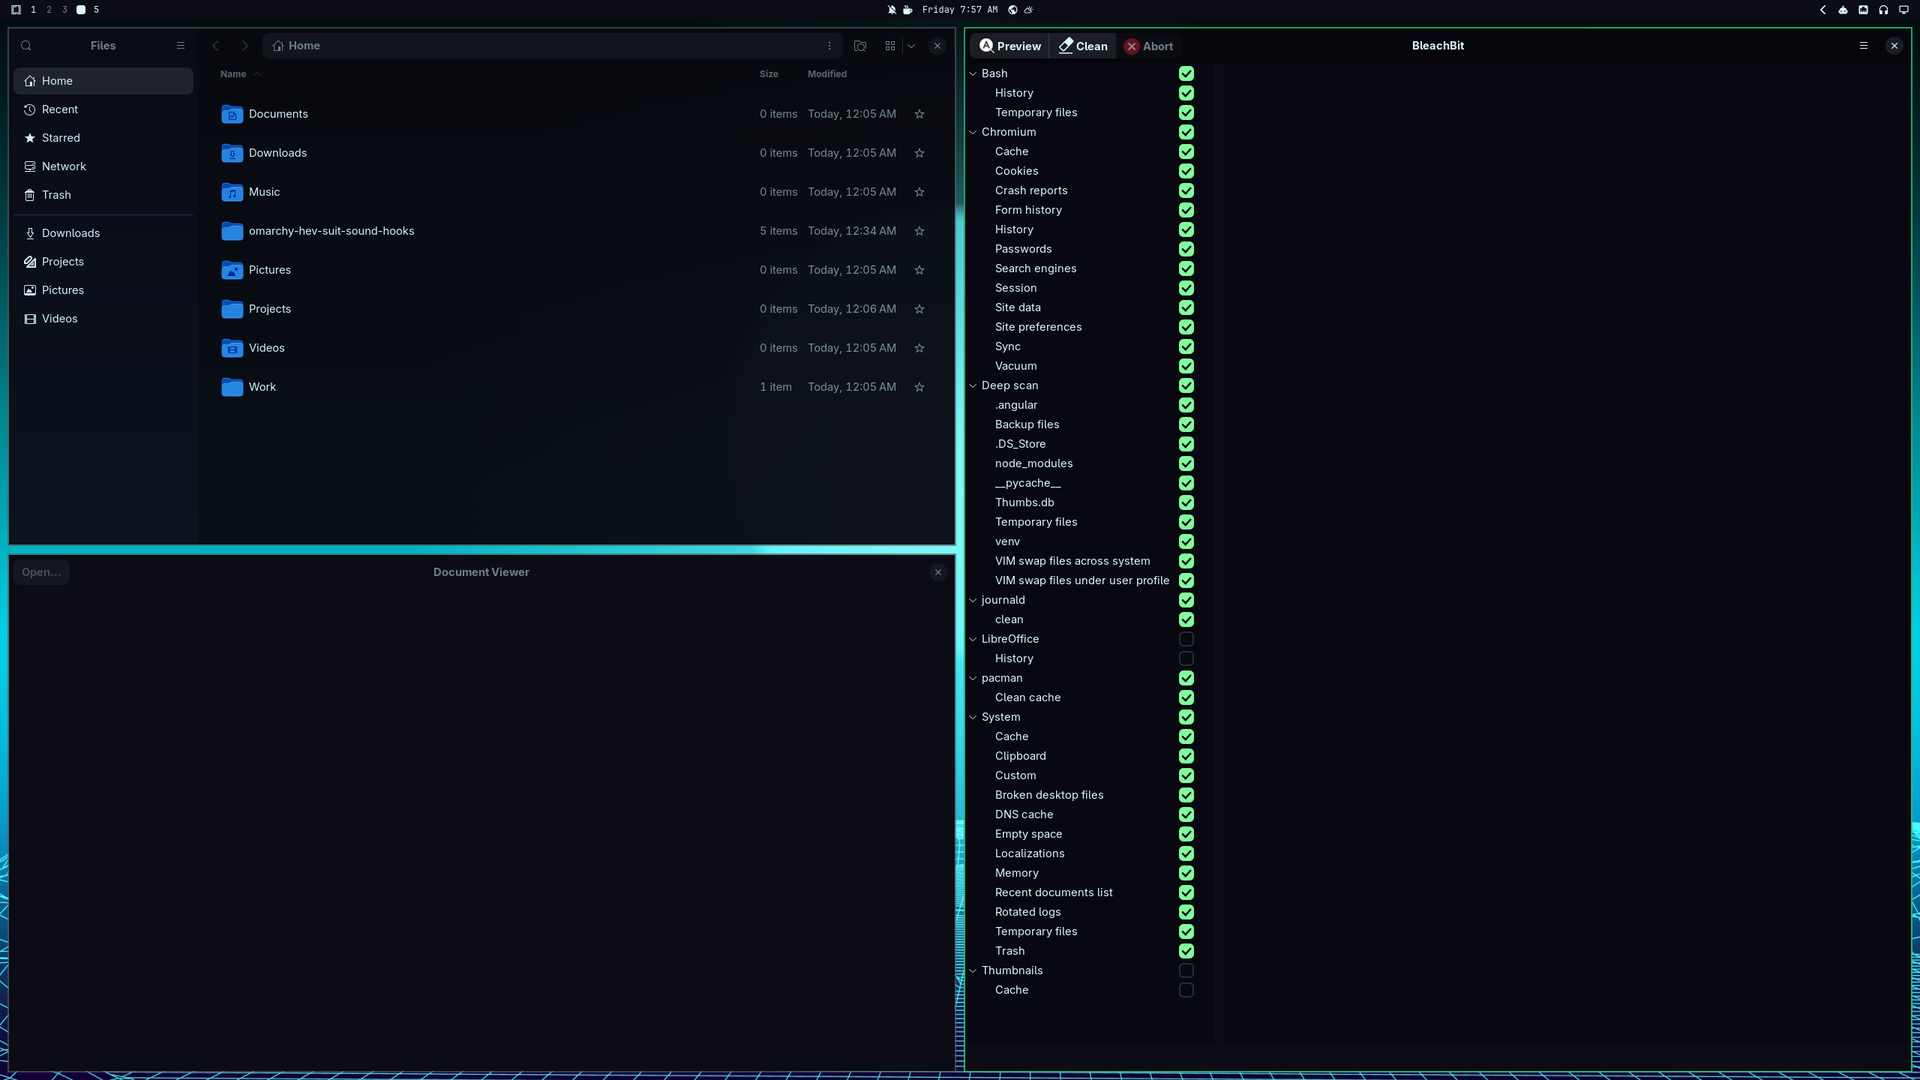
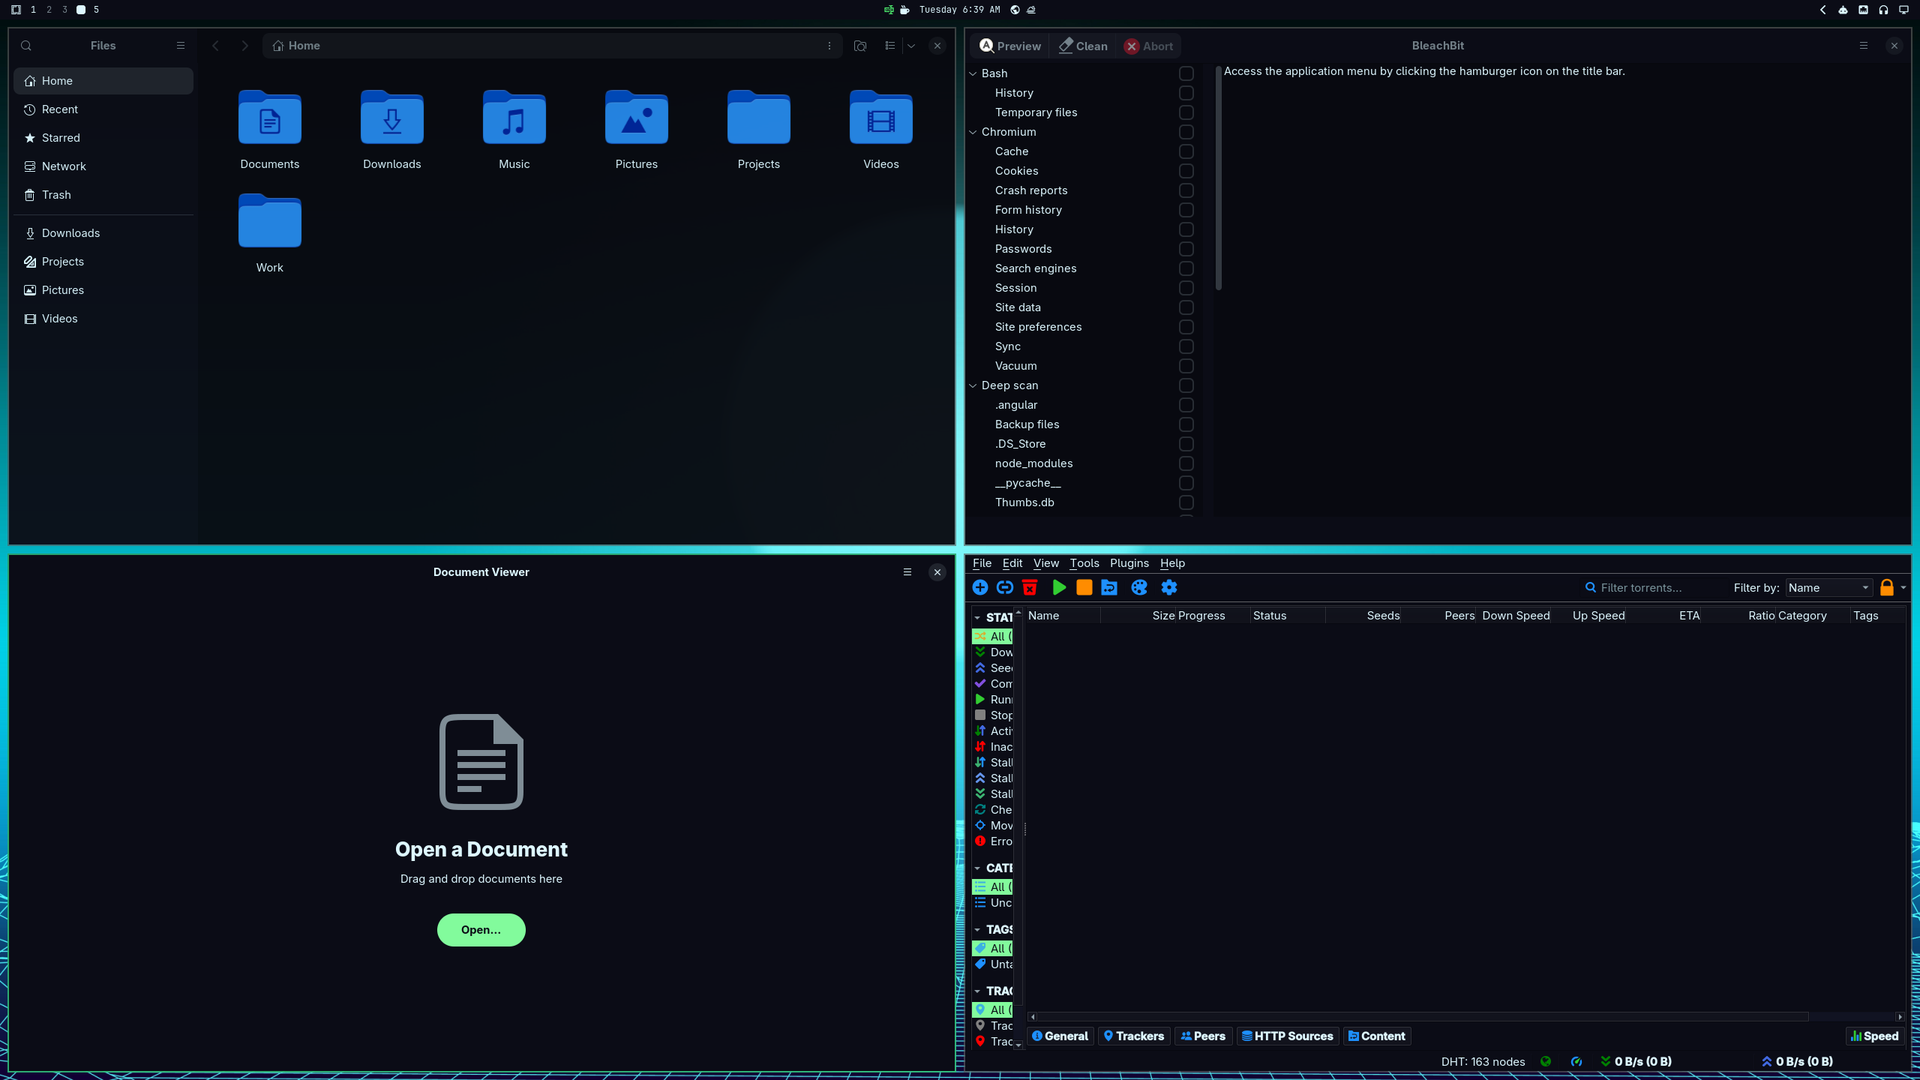
Refresh the preview and mention OmaWeb
Reshoot on Hackerman with the current app set: Files, BleachBit, Papers
(Evince's replacement), and qBittorrent in a 2x2 layout.

Replace Evince with Papers in the docs and add OmaWeb to the Credits
sibling tree as the browser-side extender.

diff --git a/README.md b/README.md
@@ -5,9 +5,9 @@ one-sweep: it paints the GTK and Qt *pipelines* most desktop apps already
 use, so dozens of programs pick up the active theme without an Appearance picker
 or a per-app skin.**
 
-![Chroma on Hackerman — Files, Document Viewer, and BleachBit wearing the theme](preview.png)
+![Chroma on Hackerman — Files, Papers, BleachBit, and qBittorrent wearing the theme](preview.png)
 
-Stock Omarchy flips Nautilus, BleachBit, Evince and friends between light and
+Stock Omarchy flips Nautilus, BleachBit, Papers and friends between light and
 dark Adwaita. That is all they ever get: the same default gray in every theme.
 Your desktop wears Hackerman neon; your file manager wears beige.
 
@@ -46,7 +46,7 @@ Theme authors are free to mention these as extenders in their repos — or not. 
 
 ### Why GTK & Qt (pipelines, not apps)
 
-Most “apps” on a Linux desktop are not custom paint engines. They speak **GTK** or **Qt**. Recolor those pipelines and you recolor Nautilus, Evince, BleachBit, File Roller, qBittorrent, qpwgraph, and a long tail of friends in one shot — without asking each upstream for a theme file.
+Most “apps” on a Linux desktop are not custom paint engines. They speak **GTK** or **Qt**. Recolor those pipelines and you recolor Nautilus, Papers, BleachBit, File Roller, qBittorrent, qpwgraph, and a long tail of friends in one shot — without asking each upstream for a theme file.
 
 That is the opposite of shipping a skin for OBS (where a real theme format exists — see OmaOBS) or patching Chromium / Steam / a website. Those either have no stable color contract, own their own UI chrome, or update on someone else’s schedule. Fighting that is a cat-and-mouse game with people who never asked for your patches; asking strangers to install your fork of Chromium or Steam is weirder still. Websites are worse: content CSS is not your desktop.
 
@@ -56,7 +56,7 @@ Inspired by [Accord](https://github.com/vonsensey/accord), which proved the GTK 
 
 ## What you get
 
-- **GTK4 / libadwaita** — Nautilus, Evince, Calendar, Text Editor, Loupe, …
+- **GTK4 / libadwaita** — Nautilus, Papers, Calendar, Text Editor, Loupe, …
   via `~/.config/gtk-4.0/gtk.css` (the only user lever libadwaita honors).
   Restart-only.
 - **GTK3 — live** — a generated theme under
@@ -301,7 +301,7 @@ active theme name instead of only rewriting user CSS. What still lags is
 documented below; we never kill a window that is in use to force a repaint.
 
 - **GTK4 / libadwaita** — reads `~/.config/gtk-4.0/gtk.css` once per process.
-  Nautilus, Evince, Calendar, Text Editor, Loupe and friends need a restart
+  Nautilus, Papers, Calendar, Text Editor, Loupe and friends need a restart
   after a switch. This is the one remaining restart-only toolkit.
 - **GTK3 apps built on libhandy** — GNOME Disks and Document Viewer are the
   common ones. Light switches keep following live, but **any** switch to a dark
@@ -386,6 +386,10 @@ bash ~/.config/omarchy/plugins/io.github.alxwolfenstein97.chroma/check.sh
   [OmaVT](https://github.com/AlxWolfenstein97/omavt),
   [OmaTTY](https://github.com/AlxWolfenstein97/omatty),
   [OmaHud](https://github.com/AlxWolfenstein97/omahud).
+- Browser side: **[OmaWeb](https://github.com/AlxWolfenstein97/omaweb)** —
+  reshapes the official Catppuccin userstyles bundle to the active
+  `colors.toml` and hands it to Stylus, with an optional Dark Reader export.
+  Manual by design: no Appearance row and no family boom.
 - Already solved elsewhere (gladly):
   - **[Omacord](https://github.com/ASwenia/omacord)** — Vesktop / Vencord Discord
     follows Omarchy themes live. No theme carousel / mockup picker: it **syncs**,
